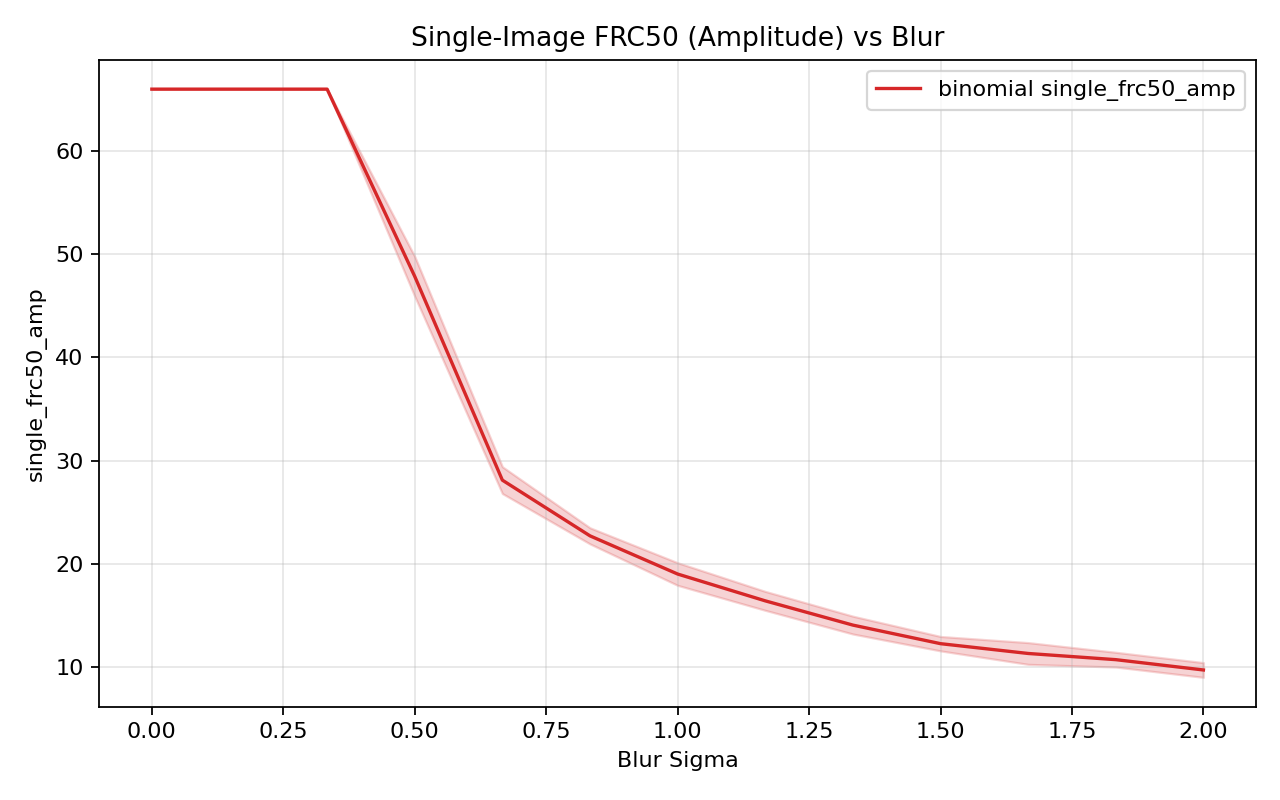
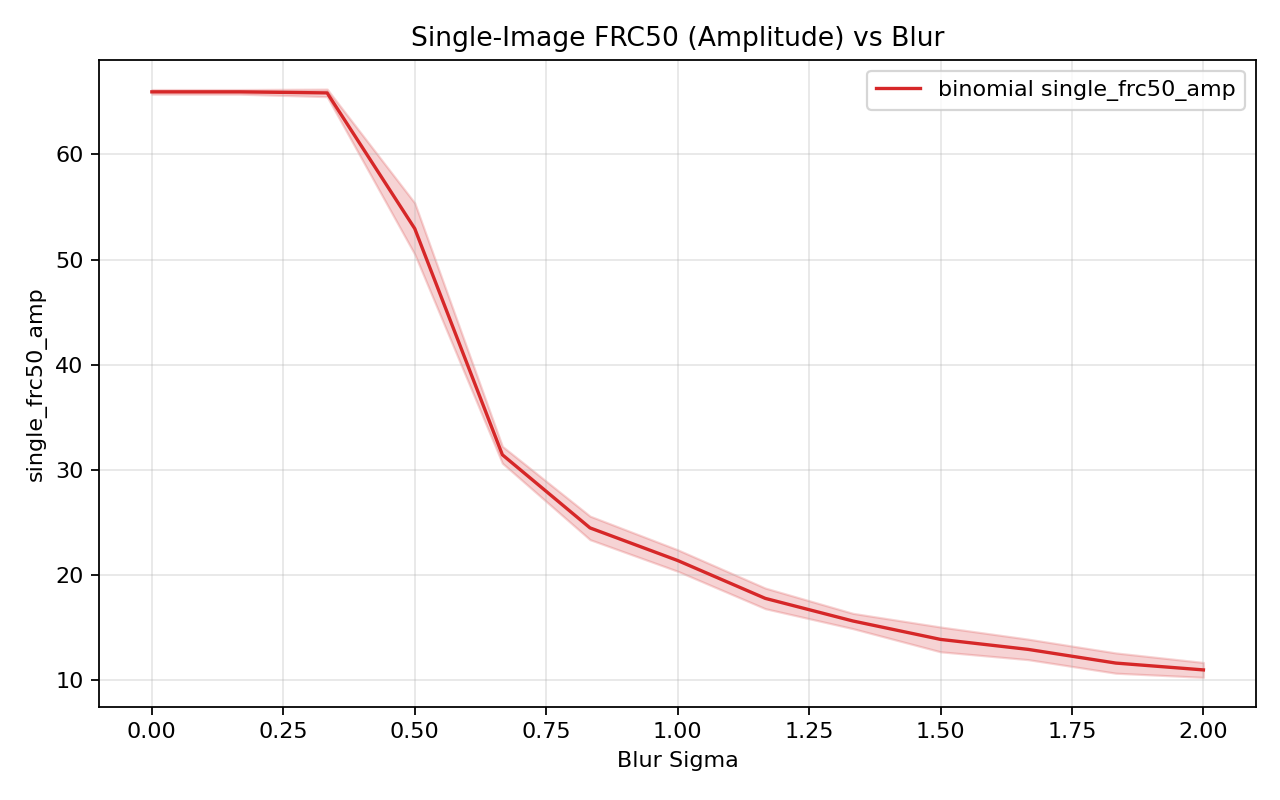
update readme

diff --git a/frc/single_image_frc.py b/frc/single_image_frc.py
@@ -41,7 +41,7 @@ def split_binomial_thinned(
     rng_seed: int | None = None,
     count_scale: float = 4096.0,
 ) -> tuple[np.ndarray, np.ndarray]:
-    """Split an image into two half-images via deterministic binomial thinning."""
+    """Split an image into two statistically independent Poisson half-images."""
     img = np.asarray(arr)
     if img.ndim != 2:
         raise ValueError(f"Expected 2D array, got shape {img.shape}")
@@ -54,11 +54,10 @@ def split_binomial_thinned(
     rng = np.random.default_rng(0 if rng_seed is None else int(rng_seed))
     mag = np.abs(np.asarray(img, dtype=np.complex128))
     intensity = np.nan_to_num(mag * mag, nan=0.0, posinf=0.0, neginf=0.0)
-    counts = np.rint(intensity * float(count_scale)).astype(np.int64)
-    counts = np.clip(counts, 0, None)
+    lam = np.clip(intensity * float(count_scale), 0.0, None)
 
-    half_counts_a = rng.binomial(counts, 0.5)
-    half_counts_b = counts - half_counts_a
+    half_counts_a = rng.poisson(0.5 * lam)
+    half_counts_b = rng.poisson(0.5 * lam)
     mag_a = np.sqrt(half_counts_a / float(count_scale))
     mag_b = np.sqrt(half_counts_b / float(count_scale))
 
